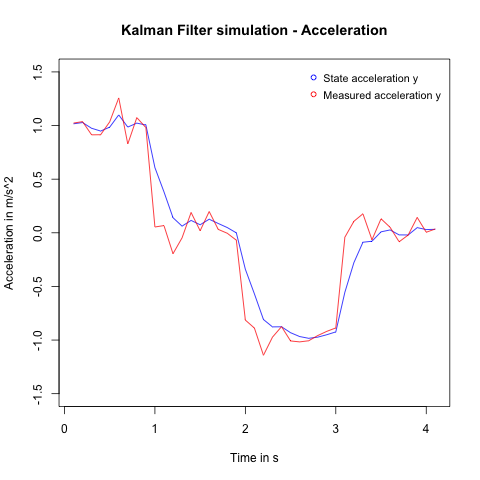
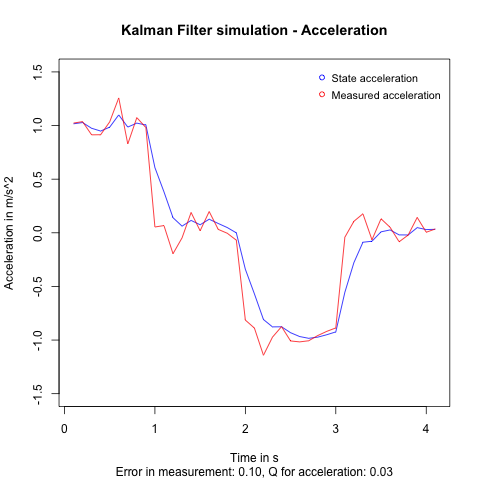
Expand documentation with plots of velocity and distance

Changed region(s): [[0.2188, 0.9688, 0.8125, 1.0], [0.6562, 0.1562, 0.9375, 0.2188]]

diff --git a/1d_acc_filter/c_code/src/main.cpp b/1d_acc_filter/c_code/src/main.cpp
@@ -20,11 +20,11 @@ Matrix<3,3> get_A_matrix(float dt){
     return A;
 }
 
-Matrix<3,3> get_Q_matrix(){
+Matrix<3,3> get_Q_matrix(float Q_acc){
     // Process noise
     Matrix<3,3> Q;
     Q.Fill(0.0);
-    Q(2,2) = 0.03;
+    Q(2,2) = Q_acc;
     return Q;
 }
 
@@ -61,6 +61,7 @@ int main (int argc, char *argv[]){
     float time = 0.0;
     const float delta_t = 0.1;
     const float meas_error = 0.1;
+    const float Q_acc = 0.03;
 
     LOGLEVEL log_level = PLOT;
     Matrix<3,1> x;
@@ -79,7 +80,7 @@ int main (int argc, char *argv[]){
     R(0,0) = meas_error;
     Matrix<3,1> K;
 
-    Matrix<3,3> Q = get_Q_matrix();
+    Matrix<3,3> Q = get_Q_matrix(Q_acc);
 
     log_header(log_level);
 
@@ -108,7 +109,7 @@ int main (int argc, char *argv[]){
         P = P - K * H * P;
         log_result_x_P(x,P,log_level);
 
-        log_plot(time, x, z, log_level);
+        log_plot(time, x, z, meas_error, Q_acc, log_level);
     }
     
 }

diff --git a/1d_acc_filter/c_code/src/logger.cpp b/1d_acc_filter/c_code/src/logger.cpp
@@ -2,12 +2,12 @@
 
 void log_header(LOGLEVEL level){
     if (level != PLOT){ return; }
-    printf("Time, Direction, Velocity, Acceleration, Measurement\n");
+    printf("Time, Distance, Velocity, Acceleration, Measurement, Meas_Err, Q_acc\n");
 }
 
-void log_plot(float time, Matrix<3,1> x, Matrix<1,1> z, LOGLEVEL level){
+void log_plot(float time, Matrix<3,1> x, Matrix<1,1> z, float meas_err, float Q_acc, LOGLEVEL level){
     if (level != PLOT){ return; }
-    printf("%f, %f, %f, %f, %f\n", time, x(0), x(1), x(2), z(0));
+    printf("%f, %f, %f, %f, %f, %f, %f\n", time, x(0), x(1), x(2), z(0), meas_err, Q_acc);
 }
 
 void log_time_header(float time, LOGLEVEL level){

diff --git a/1d_acc_filter/c_code/src/logger.h b/1d_acc_filter/c_code/src/logger.h
@@ -9,7 +9,7 @@ enum LOGLEVEL{
 
 // For Plotting
 void log_header(LOGLEVEL level);
-void log_plot(float time, Matrix<3,1> x, Matrix<1,1> z, LOGLEVEL level);
+void log_plot(float time, Matrix<3,1> x, Matrix<1,1> z, float meas_err, float Q_acc, LOGLEVEL level);
 
 // For Debugging
 void log_time_header(float time, LOGLEVEL level);

diff --git a/1d_acc_filter/About1dAcc.md b/1d_acc_filter/About1dAcc.md
@@ -63,3 +63,9 @@ For the following plot, the `Q` value for acceleration was lowered to `0.03`.
 In conclusion:
 - `Q` should not be ignored
 - More `Q` means faster convergence and less smoothing
+
+With the added `Q` the velocity and distance also follow the expected paths:
+
+![](images/plot_vel.png)
+
+![](images/plot_dist.png)
